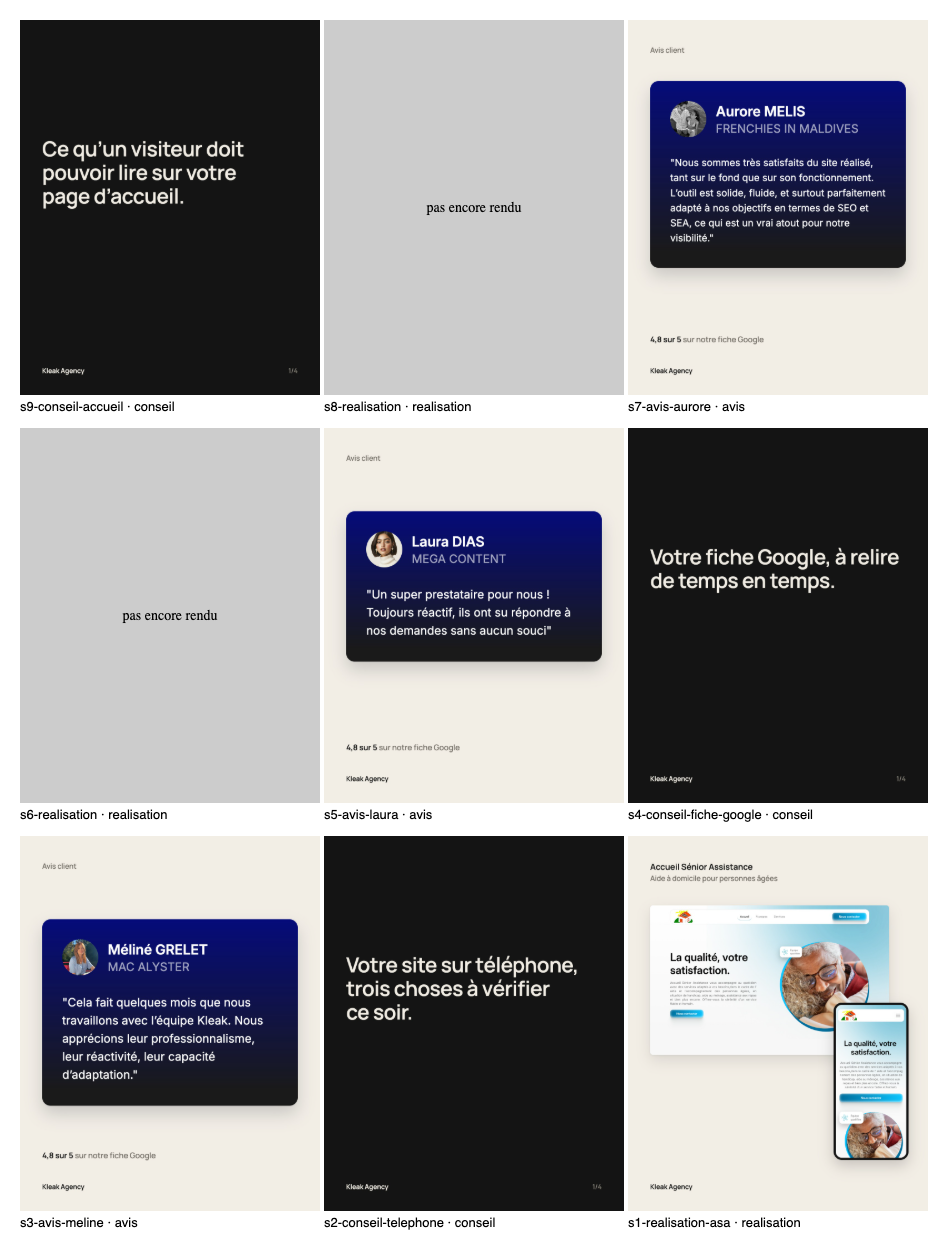
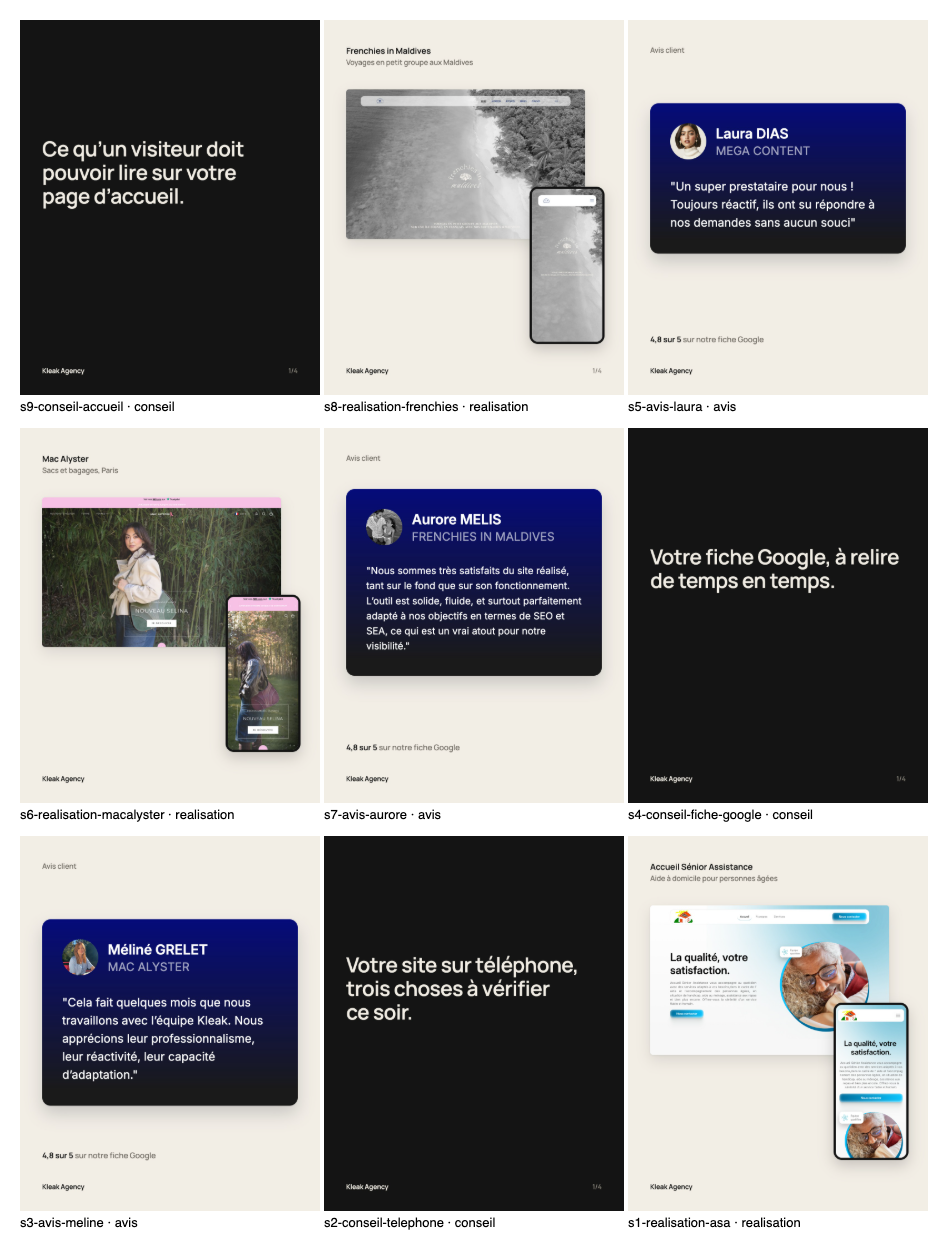
Post Frenchies passé en carrousel de 4 images, déposé à valider
- Gabarit realisationCarrousel dans build.mjs, captures de sections sans prix
- deposer.mjs accepte 1 à 10 images pour une réalisation
- Règle du 28/10 ajoutée au README, plan éditorial à jour

diff --git a/livrables/posts-organiques/plan-editorial.md b/livrables/posts-organiques/plan-editorial.md
@@ -26,7 +26,7 @@ Ordre du tableau = ordre de publication. La grille Instagram l'affiche à l'enve
 | s7-avis-aurore | avis | 2026-11-07 12:30 | déposé | 3d862a01-4480-4b2d-9713-c100ca4633e0 | Merci Aurore pour ce retour sur le site de Frenchies in Maldives. |
 | s6-realisation-macalyster | realisation | 2026-11-10 12:30 | déposé | f1c813e6-db81-4d45-baec-6428ecc3be60 | Le site de Mac Alyster, marque parisienne de sacs et de bagages. Les nouveautés et les précommandes sont en tête de la page d'accueil. |
 | s5-avis-laura | avis | 2026-11-12 12:30 | déposé | 6cfab692-f2a1-4b25-ac2a-6c6c278d8c01 | Merci Laura pour ce retour. |
-| s8-realisation-frenchies | realisation | 2026-11-14 12:30 | déposé | 60fc9572-f81a-472e-bd78-f8adcd07929d | Le site de Frenchies in Maldives, voyages en petit groupe sur une île locale des Maldives, en français. Les séjours, les activités et les offres se trouvent depuis le menu. |
+| s8-realisation-frenchies | realisation | 2026-11-14 12:30 | corrigé | 60fc9572-f81a-472e-bd78-f8adcd07929d | Le site de Frenchies in Maldives, voyages en petit groupe sur une île locale des Maldives, en français. Sur la page d'accueil, les deux séjours sont présentés côte à côte et le bouton Réserver ouvre WhatsApp avec un message déjà écrit. La FAQ répond aux questions qu'on se pose avant de partir. |
 | s9-conseil-accueil | conseil | 2026-11-17 12:30 | déposé | 6f015cba-835b-4fca-b46d-f94b34a67d67 | Relisez votre page d'accueil avec ces points en tête. |
 
 Ordre en diagonale : dans la grille à 3 colonnes (le dernier en haut à gauche), les lignes sont s9 s8 s7 / s6 s5 s4 / s3 s2 s1, soit C R A / R A C / A C R. Aucune colonne n'empile le même type, et jamais deux types identiques de suite.
@@ -37,7 +37,7 @@ Ordre en diagonale : dans la grille à 3 colonnes (le dernier en haut à gauche)
 
 Pour ne pas se répéter. À tenir à jour à chaque dépôt.
 
-- **Réalisations** : Accueil Sénior Assistance (s1) ; Mac Alyster (s6) ; Frenchies in Maldives (s8). Mega Content : jamais en réalisation.
+- **Réalisations** : Accueil Sénior Assistance (s1) ; Mac Alyster (s6) ; Frenchies in Maldives (s8, en carrousel de 4 images depuis la correction du 28/10 : séjours côte à côte, réservation par WhatsApp, FAQ). Mega Content : jamais en réalisation.
 - **Avis** : Méliné Grelet, Mac Alyster (s3) ; Aurore Melis, Frenchies in Maldives (5e, id s7) ; Laura Dias, Mega Content (7e, id s5). Après s7, les trois avis réels ont tous été montrés : un nouvel avis ne vient que d'un vrai client.
 - **Sujets de conseils** : le site sur téléphone (numéro visible, texte lisible, page rapide en 4G) (s2) ; la fiche Google (horaires, réponses aux avis, lien vers le site) (s4) ; la page d'accueil (ce que vous faites, où vous intervenez, le contact dans le menu) (s9).
 - **Sujets en réserve** (sans chiffre inventé) : mentions légales et bandeau cookies ; les photos du site (vraies photos plutôt que banque d'images) ; le formulaire de contact (le tester soi-même, savoir où arrivent les messages) ; le nom de domaine et l'adresse email à son nom.

diff --git a/livrables/posts-organiques/README.md b/livrables/posts-organiques/README.md
@@ -109,4 +109,5 @@ hashtags) : un texte refusé et rien n'est enregistré.
 À chaque refus ou correction d'Edgar, ajouter ici la règle qui en découle, avec la date.
 
 - 27/10 (relecture de la série) : pas de généralisation sur « vos clients » ou « la plupart des visiteurs » (« vous cherchent souvent », « une bonne partie repart »), pas de chute (« ils appellent le suivant »), pas de série rythmée en trois temps (« une adresse change, une page disparaît, et… »), pas deux fois la même tournure d'un post à l'autre (« cinq minutes suffisent », textes et couvertures qui commencent tous par « Trois … » : une couverture « trois » au plus par série), pas de tournure « X, pas Y », pas de titres en fragments empilés (« Ce que vous faites. / Où vous intervenez. »), pas d'affirmation non vérifiable (« tout se règle depuis votre téléphone »). Des phrases plates qui disent quoi faire.
+- 28/10 (s8, Frenchies in Maldives) : une réalisation en une seule image ne suffit pas. « Faire un carrousel qui met en avant des spécificités du site et le présente. » Couverture au gabarit réalisation, puis une spécificité réelle du site par page (phrase en gras, explication, section du site en capture par `_capture-sections.mjs`, prix retirés). Gabarit `realisationCarrousel` dans `build.mjs`.
 - 27/10 : l'ordre de la série se fait en diagonale dans la grille, pour qu'aucune colonne n'empile le même type.
